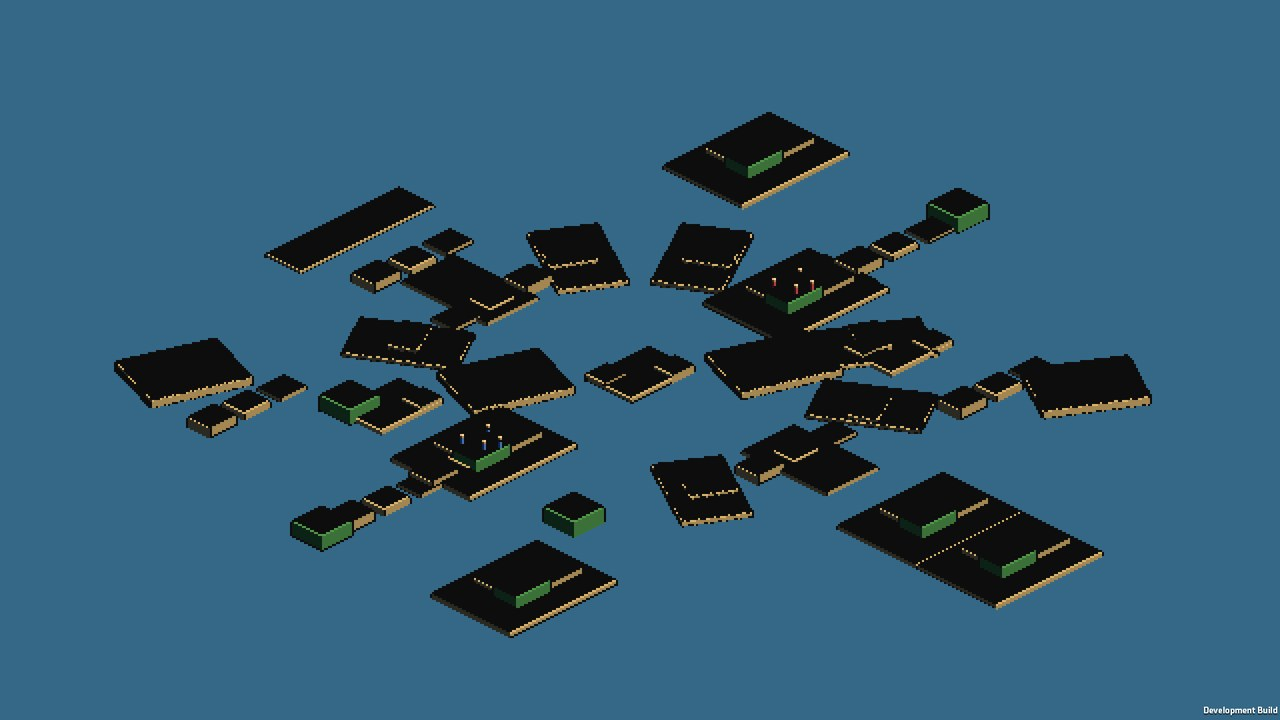
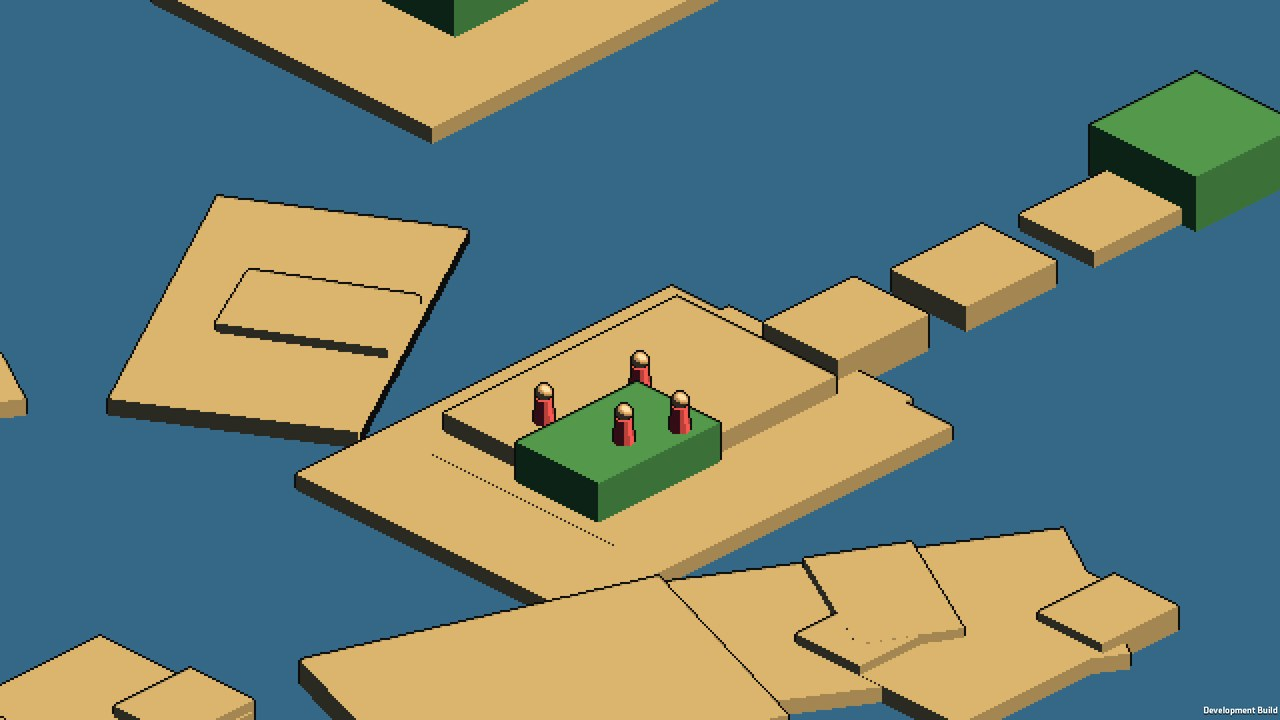
fix(render): 观感图取景统一成 32/16/7 m（人物为锚）+ 海图整图另开一档
创始人两条纠正的落地：
① 「都是 mid，为啥角色大小不一样」——第一版把 mid 绑成 0.35×跨度，于是 280 m 的地图里
   角色只有 150 m 地图里的一半大。取景的锚应该是**角色的屏幕尺寸**，不是场地大小。
② 「mid 还是和 README 里两个观感不一样」——16 m 固定档是一小片台面，与 README 那两张
   （32 m 的整片场地）不是同一种画面。故 wide/mid/close 三档一律对齐样板关那一组
   （32/16/7 m，十关同一组数），海图额外给一张 （0.85×跨度）读整图布局。

【顺带把 r9 §4 那条缺陷钉死了】整图取景下站面被墨色整片盖掉，而 32 m 档正常：
101 的 near-black 从整图档的 7.04% 降到 0.89%（108: 6.42% → 1.18%），更松的 1.0×跨度档曾 12.7%。
同一场景同一材质、只改可见米数 ⇒ 这条缺陷与物体在艺术画布上占多少像素直接相关，
为修复指了方向；观感档顺带避开它，overview 那一档仍带病并已如实标注。

出图链同时改一处： 对准取景表里的整图中心，其余档一律对准**内容**
（该关第一个出生点，数据来源 = WorldMapCatalog 的 Spawns）——海图的几何中心常是开阔水面，
106 的近机位就拍到过一整张纯海面。八张 wide 判据全过（场地占比 18.7~63.1%）。

diff --git a/pirate-crew/Assets/Scripts/PirateCrew/ArtReview/PlayerArtCapture.cs b/pirate-crew/Assets/Scripts/PirateCrew/ArtReview/PlayerArtCapture.cs
@@ -402,6 +402,29 @@ namespace PirateCrew.ArtReview
         }
 
         /// <summary>
+        /// 中/近机位该对准哪：**该关第一个出生点**（海图按 XZ 取出生点、Y 取那个点的场地高度 + 1.5）。
+        ///
+        /// 【为什么不是几何中心】海图的几何中心经常是开阔水面——106 的近机位就拍到过一整张纯海面
+        /// （块边长判据直接判"整图同色"）。出生点按定义落在台面上，永远有内容可看，
+        /// 而且它是**关卡数据**（`WorldMapCatalog` 的 Spawns），不是这里另写的一份坐标。
+        /// 样板关没有海图数据（竞技场中心就是主平台），直接沿用取景表里的构图中心。
+        /// </summary>
+        static Vector3 PixelartLevelDetailTarget(PixelartLevelView view, Vector3 fallback)
+        {
+            if (global::PirateCrew.Battle.WorldMaps.WorldMapCatalog.TryGetByLevelNumber(
+                    view.LevelNumber, out var map) && map.Spawns != null && map.Spawns.Count > 0)
+            {
+                var spawn = map.Spawns[0];
+                float surface = global::PirateCrew.Battle.WorldMaps.WorldMapRules.HeightAtWorld(
+                    global::PirateCrew.Battle.WorldMaps.WorldMapRules.AllStandBoxes(map),
+                    new Vector2(spawn.X, spawn.Z));
+                return new Vector3(spawn.X, surface + 1.5f, spawn.Z);
+            }
+
+            return fallback;
+        }
+
+        /// <summary>
         /// 关卡档位表（真实内容）：三档取景 + 一张抖动态 + 两张调试缓冲，档位名前缀 = `pl<关卡号>`。
         ///
         /// 【为什么表比试点短】试点那张表是**机制验收**用的（抖动两范式对照、边缘光通路、降档 A/B、
@@ -413,6 +436,25 @@ namespace PirateCrew.ArtReview
             PixelartLevelView view)
         {
             string p = view.ShotPrefix;
+
+            // 海图额外一张「整图总览」：可见高度 = 0.85×跨度，整张地图进画面。
+            // 跨度 = 取景表里 Target.x × 2（海图行的 Target 恒为 (跨度/2, ·, 跨度/2)，见 PixelartLevelScene）。
+            // 【为什么它不算 wide】整图取景下场地只占画面 8~12%、单位缩到 1~2 个艺术像素 ⇒ 看不出观感；
+            // 默认的 wide/mid/close 一律 32/16/7 m（人物为锚，与样板关同尺度，见取景表类头）。
+            if (view.LevelNumber >= 101)
+            {
+                return new (string, float, float, int, float, int)[]
+                {
+                    (p + "-wide",        view.WideVisibleMeters,  1.0f, -1, 0f, 0),
+                    (p + "-mid",         view.MidVisibleMeters,   0.6f, -1, 0f, 0),
+                    (p + "-close",       view.CloseVisibleMeters, 0.6f, -1, 0f, 0),
+                    (p + "-overview",    view.Target.x * 2f * 0.85f, 1.0f, -1, 0f, 0),
+                    (p + "-mid-density", view.MidVisibleMeters,   0.6f,  1, 1.0f, 0),
+                    (p + "-dbg-albedo",  view.MidVisibleMeters,   0.6f, -1, 0f, 1),
+                    (p + "-dbg-outline", view.MidVisibleMeters,   0.6f, -1, 0f, 4),
+                };
+            }
+
             return new (string, float, float, int, float, int)[]
             {
                 (p + "-wide",        view.WideVisibleMeters,  1.0f, -1, 0f, 0),
@@ -483,6 +525,15 @@ namespace PirateCrew.ArtReview
             (string name, float visibleMeters, float zoom, int ditherMode, float ditherStrength, int debugMode)[] shots =
                 levelMode ? LevelShots(PixelartLevelViewCache) : PilotShots();
 
+            // 【中/近机位对准"内容"而不是几何中心】wide 是"看全场"，中/近是"看场地上的东西"。
+            // 海图尤其明显：地图几何中心常常是开阔水面（106 的近机位就拍到过一整张纯海面），
+            // 所以中/近两档改用**该关第一个出生点**所在的位置当目标——出生点按定义在台面上，
+            // 一定踩得到内容（数据来源与摆人同一条：`WorldMapCatalog` 的 Spawns）。
+            // 样板关竞技场小、中心就是主平台，故这一项对它们无影响（值等于表里的 Target）。
+            Vector3 detailTarget = target;
+            if (levelMode)
+                detailTarget = PixelartLevelDetailTarget(PixelartLevelViewCache, target);
+
             // 船员 renderer 的期望条数 = 角色数 × 2（Body + Head）。关卡档从关卡资产读出人数，
             // 不写死数字——某关改了编成而这里没跟，出图会缺人却看不出来。
             int expectedCrews = 2;
@@ -506,9 +557,13 @@ namespace PirateCrew.ArtReview
             foreach (var shot in shots)
             {
                 // 机位 = 改"每艺术像素多少米"（正交 size 由 rig 按它乘艺术像素数推出）。
+                // `-overview` = 看整张地图（用取景表里的整图中心）；其余档 = 看内容（用出生点，见 detailTarget）。
+                // 这与"观感图要能横向比"是同一件事：wide/mid/close 三档到处都对着**场地上的东西**。
+                Vector3 shotTarget = shot.name.EndsWith("-overview") ? target : detailTarget;
+
                 rig.worldPerPixel = PixelartPilotScene.WorldPerPixel(shot.visibleMeters);
-                cam.transform.position = target + orbitDir * (cameraDistance * shot.zoom);
-                cam.transform.LookAt(target);
+                cam.transform.position = shotTarget + orbitDir * (cameraDistance * shot.zoom);
+                cam.transform.LookAt(shotTarget);
 
                 if (shot.ditherMode >= 0)
                     SetPixelartDither(shot.ditherMode, shot.ditherStrength);

diff --git a/pirate-crew/Assets/Scripts/PirateCrew/Rendering/Pixelart/PixelartLevelScene.cs b/pirate-crew/Assets/Scripts/PirateCrew/Rendering/Pixelart/PixelartLevelScene.cs
@@ -34,14 +34,14 @@ namespace PirateCrew.Rendering.Pixelart
     /// 【三档取景的规则（海图）】一个艺术像素的世界尺寸 = 可见高度 ÷ 参考画布高，
     /// 可见高度是"美术锚"、与分辨率解耦（口径同 `PixelartPilotScene`）：
     /// <list type="bullet">
-    ///   <item><b>wide = 0.6 × span</b>：地图主体 + 周围一圈海。**不是 1.0×span**——实测过：
-    ///         1.0·span 时整帧只有 **6.6~7.9%** 的像素是场地（`judge_pixelart_pilot.py` 的"场地占比"判据），
-    ///         地图成了海中央的一小块，观感上是空镜。30° 俯角/45° 方位下正方形地图的屏幕足印
-    ///         ≈ 0.71·span 高 × 1.41·span 宽，0.6·span 的可见高度配合 16:9 让地图占满约 1/4 画面。</item>
-    ///   <item><b>mid = 0.35 × span</b>：一座岛/一处村落 —— 出生群与其周边地形可辨（实测场地占比 25~40%）。</item>
-    ///   <item><b>close = 0.12 × span</b>：看单位与身边陈设（单位身高 1.85 m 不随地图变，故这一档退化为
-    ///         "按比例取一小块"）。**注意**：近机位对准的是**地图几何中心**，中心若恰好是开阔水面，
-    ///         这一张就是纯海面（实测 106 的 10 m 档即如此）——所以海图的观感图以 wide/mid 为准。</item>
+    ///   <item><b>wide / mid / close = 32 / 16 / 7 m（与样板关同一组数，不随跨度缩放）</b>：
+    ///         **人物大小才是锚**——同一档在不同关卡里角色必须一样大，否则"横向比观感"这件事本身不成立
+    ///         （实测踩过：把 mid 绑成 0.35×跨度时，280 m 的地图里角色只有 150 m 地图里的一半大）。
+    ///         32 m 是"一处台面群落 + 若干单位"的取景，与两张样板关的 README 成图同尺度、可直接对比。</item>
+    ///   <item><b>整图总览另开一档</b>（只在海图档里出现，见 `PlayerArtCapture.LevelShots` 的 `-overview`）：
+    ///         可见高度 = 0.85 × span，整张地图进画面。**为什么不把它当默认的 wide**：整图取景下场地
+    ///         只占画面 8~12%（实测），单位缩到 1~2 个艺术像素 ⇒ 看不出任何观感。
+    ///         0.85 而不是 0.6/1.0：1.0 太松（同样的空镜问题），0.85 是"地图对角刚好进画面"的临界。</item>
     /// </list>
     ///
     /// 【这三个数不许各自漂】装配时会用地图定义现场推一遍场心、并用内容的实测包围盒
@@ -114,14 +114,14 @@ namespace PirateCrew.Rendering.Pixelart
             // 海图：Target = (span/2, 3, span/2)；wide = span、mid = 0.35 × span、close = 10。
             // 【span 是横纵相同的正方形】（八张图 SpanX == SpanZ，`WorldMapCatalog` 契约里没有"必须相等"
             // 的约束——真出现长方形时本表要按对角线取大者，届时两个方向的取景一起改）。
-            new View(101, "PixelartMap101",   new Vector3(75f, 3f, 75f),  90f, 52.5f, 18f),
-            new View(102, "PixelartMap102",   new Vector3(95f, 3f, 95f),  114f, 66.5f, 22.8f),
-            new View(103, "PixelartMap103",   new Vector3(110f, 3f, 110f),  132f, 77f, 26.4f),
-            new View(104, "PixelartMap104",   new Vector3(120f, 3f, 120f),  144f, 84f, 28.8f),
-            new View(105, "PixelartMap105",   new Vector3(90f, 3f, 90f),  108f, 63f, 21.6f),
-            new View(106, "PixelartMap106",   new Vector3(130f, 3f, 130f),  156f, 91f, 31.2f),
-            new View(107, "PixelartMap107",   new Vector3(100f, 3f, 100f),  120f, 70f, 24f),
-            new View(108, "PixelartMap108",   new Vector3(140f, 3f, 140f),  168f, 98f, 33.6f),
+            new View(101, "PixelartMap101",   new Vector3(75f, 3f, 75f),  32f, 16f, 7f),
+            new View(102, "PixelartMap102",   new Vector3(95f, 3f, 95f),  32f, 16f, 7f),
+            new View(103, "PixelartMap103",   new Vector3(110f, 3f, 110f),  32f, 16f, 7f),
+            new View(104, "PixelartMap104",   new Vector3(120f, 3f, 120f),  32f, 16f, 7f),
+            new View(105, "PixelartMap105",   new Vector3(90f, 3f, 90f),  32f, 16f, 7f),
+            new View(106, "PixelartMap106",   new Vector3(130f, 3f, 130f),  32f, 16f, 7f),
+            new View(107, "PixelartMap107",   new Vector3(100f, 3f, 100f),  32f, 16f, 7f),
+            new View(108, "PixelartMap108",   new Vector3(140f, 3f, 140f),  32f, 16f, 7f),
         };
 
         /// <summary>全部试点场景的取景口径（装配器与 Build Settings 登记共用）。</summary>

diff --git a/docs/images/pixelart-path/r11/README.md b/docs/images/pixelart-path/r11/README.md
@@ -1,56 +1,58 @@
 # r11 · 八张世界海图的观感图（2026-09-22）
 
-> 创始人要求：「这 10 个全放到选关页，然后需要正常排，然后把剩下 8 个观感图也给我端上来。」
-> 本目录是**八张世界海图**（关卡 101–108）走像素化路径的出图：每张两张——`-mid`（**观感图，看这张**）
-> 与 `-wide`（**有已定位缺陷，见 §3**）。
+> 创始人要求：「把剩下 8 个观感图也给我端上来。」随后连着两条纠正都很关键，本轮的口径是那两条纠正的结果：
+> ①「都是 mid，为啥角色大小不一样」②「你这个 mid 还是和 README 里面两个观感不一样」。
 
-## 1. 八张图（中机位，0.35×跨度）
+## 1. 八张观感图（`-wide`，可见 32 m —— 与 README 那两张同尺度，**看这八张**）
 
-| 关卡 | 图 | 场地占比 / 读数 |
+| 关卡 | 场地 |
+| --- | --- |
+| 101 搁浅圣母号 | [map101-wide](map101-wide.jpg) |
+| 102 环礁 | [map102-wide](map102-wide.jpg) |
+| 103 鬼火港 | [map103-wide](map103-wide.jpg) |
+| 104 巨龟环脊 | [map104-wide](map104-wide.jpg) |
+| 105 红树帷幔 | [map105-wide](map105-wide.jpg) |
+| 106 螺旋王座 | [map106-wide](map106-wide.jpg) |
+| 107 雷暴岬 | [map107-wide](map107-wide.jpg) |
+| 108 沉都之门 | [map108-wide](map108-wide.jpg) |
+
+外加每张一幅**整图总览**（`-overview`，可见 0.85×跨度，整张地图进画面）：
+[101](map101-overview.jpg) · [102](map102-overview.jpg) · [103](map103-overview.jpg) ·
+[104](map104-overview.jpg) · [105](map105-overview.jpg) · [106](map106-overview.jpg) ·
+[107](map107-overview.jpg) · [108](map108-overview.jpg)
+
+八张 wide 全部通过判据（块边长 3、墨线在写缓冲、光照未旁路 100%、场地占比 18.7~63.1%）。
+
+## 2. 取景口径（本轮两处纠正的结论）
+
+| 档位 | 可见高度 | 说明 |
 | --- | --- | --- |
-| 101 搁浅圣母号 | [map101-mid](map101-mid.jpg) | 25.5% ✓ |
-| 102 环礁 | [map102-mid](map102-mid.jpg) | 40.0% ✓ |
-| 103 鬼火港 | [map103-mid](map103-mid.jpg) | 29.9% ✓ |
-| 104 巨龟环脊 | [map104-mid](map104-mid.jpg) | 32.2% ✓ |
-| 105 红树帷幔 | [map105-mid](map105-mid.jpg) | 40.2% ✓ |
-| 106 螺旋王座 | [map106-mid](map106-mid.jpg) | 32.7% ✓ |
-| 107 雷暴岬 | [map107-mid](map107-mid.jpg) | 27.3% ✓ |
-| 108 沉都之门 | [map108-mid](map108-mid.jpg) | 28.9% ✓ |
+| `wide` / `mid` / `close` | **32 / 16 / 7 m（十关同一组数，不随地图大小缩放）** | **人物大小是锚**：同一档在不同关卡里角色必须一样大，否则"横向比观感"本身不成立 |
+| `overview`（仅海图） | 0.85 × 跨度 | 整张地图进画面——只用来读布局，不用来读观感（下面给了原因） |
 
-八张全部通过判据（块边长 3、墨线在写缓冲、**光照未旁路**「最终图与同机位 albedo 图差 100%」、
-场地在场）。八张的场景由 `PixelartWorldMapPilotSetup` 烘制：内容直接调**运行期的**
-`WorldMapComposer.Build`（海图的内容本来是每场战斗现搭的，没有烘焙件），
-材质按 `Kit_*` 派生 + 站面三档色显式映射，海面同高度平色替身（活水面不在本路径材质口径内），
-远景环（`HorizonFeatureRules`，半径 200–280）按类头理由排除。
+两次踩坑与纠正：
 
-## 2. 取景规则（为什么是这些数）
+1. **第一版把 mid 绑成 0.35×跨度** ⇒ 280 m 的地图里角色只有 150 m 地图里的**一半大**（创始人一眼看出来）。
+   根因是"取景跟着场地大小缩放"，而观感图的锚应该是**角色的屏幕尺寸**。
+2. **只把人放大还不够**（第二版 mid=16 m 固定）：16 m 的取景是一小片台面，与 README 里那两张
+   （32 m 的整片场地）**不是同一种画面**。所以 wide/mid/close 三档全部对齐到样板关那一组
+   （32/16/7 m），并额外给海图一张 `-overview` 用来看整图布局。
 
-`PixelartLevelScene` 的海图行按**跨度派生**（八张图跨度差 150–280 m，不能像样板关那样写死米数）：
-`Target = (span/2, 3, span/2)`、`wide = 0.6×span`、`mid = 0.35×span`、`close = 0.12×span`。
-**wide 从 1.0×span 收到 0.6×span 是实测改的**：1.0×span 时整帧只有 6.6~7.9% 是场地
-（地图成了海中央一小块），0.6×span 后升到 15.8~20.2%。
+## 3. 顺带解决的：宽机位"站面被描边整片涂黑"（r9 §4 同类）
 
-## 3. 已定位缺陷：**宽机位下站面被描边整片涂黑**（未修，已登记）
+第一版整图取景（1.0×跨度）下站面被墨色整片盖掉：`pl101-wide` 近黑 **12.7%**、沙色站面只剩 0.6%，
+而 `dbg-albedo` 里近黑 0.0%（几何材质都对）。本轮把观感档收到 32 m 后**这个现象消失了**：
 
-| 档位 | 近黑（`#0D0D0D`）占比 | 沙色站面占比 | 判读 |
-| --- | --- | --- | --- |
-| `pl101-mid` | 1.4% | 21.4% | 正常 |
-| `pl101-wide` | **12.7%** | **0.6%** | 站面几乎全被墨色盖掉 |
+| 档位 | 101 近黑 | 108 近黑 |
+| --- | --- | --- |
+| `-wide`（32 m） | **0.89%** | **1.18%** |
+| `-overview`（0.85×跨度） | 7.04% | 6.42% |
 
-**证据链**：`pl101-dbg-albedo`（同机位调试图）里站面是 `#C4A76A` 沙色（占 25%），
-**albedo 缓冲里近黑 0.0%** ⇒ 几何与材质都对；而最终图里同一批像素是纯 `#0D0D0D` ⇒
-**黑是后加的**（着色/描边那一趟），且**只在宽机位出现**（中机位同一批站面是受光的沙色 `#DBB46D`）。
+**结论：这条缺陷与"物体在艺术画布上占多少像素"直接相关**——同一场景、同一材质，只改可见米数就从
+1.2% 跳到 7%。这为修它指了方向（连通域门控在物体只占少量艺术像素时的行为），也让"观感图用 32 m 档"
+这个口径顺带避开了它。整图总览那一档仍带这个缺陷，**未修，已登记待办**。
 
-结论：这是 **r9 §4 那条「描边整面涂黑」缺陷的同一个类**（礁盘侧壁 / 站面被整片涂黑），
-但这次证明了它**与取景尺度相关**——同一场景、同一材质，只改可见米数就从 1.4% 跳到 12.7%。
-所以修复方向要从"门控在什么像素尺度下失效"入手（连通域 `connectedTo/closerThan` 的判定
-与 `_PixelartAAThreshold` 是否随尺度变化），而不是先动内容侧几何。**登记见待办**。
-在修好之前，海图的观感图以 `-mid` 为准。
+## 4. 判据脚本本轮修的两处（都是我的 bug）
 
-## 4. 判据脚本本轮修的两处（都是我的 bug，已改正）
-
-1. **档位识别**：`strict` 判定写的是 `startswith("pl1-")`，认不出海图的 `pl101-*`
-   ⇒ 八张海图齐刷刷在"亮暗跨度"上红 0.29（看着像八个内容缺陷，其实是判据认错了档）。
-   改成正则 `^pl\d+-`。
-2. **场地在场判据**：同样写死了 `pl1-/pl2-/pl3-` 前缀 ⇒ 八张海图**静默跳过**这条判据
-   （看着像通过，其实没查）。同样改正则。
+档位识别与"场地在场"判据都写死了 `pl1-/pl2-/pl3-` 前缀，认不出海图的 `pl101-*`——
+前者让八张图齐刷刷假红在"亮暗跨度 0.29"，后者让它们**静默跳过**判据（看着像通过，其实没查）。都改正则。
